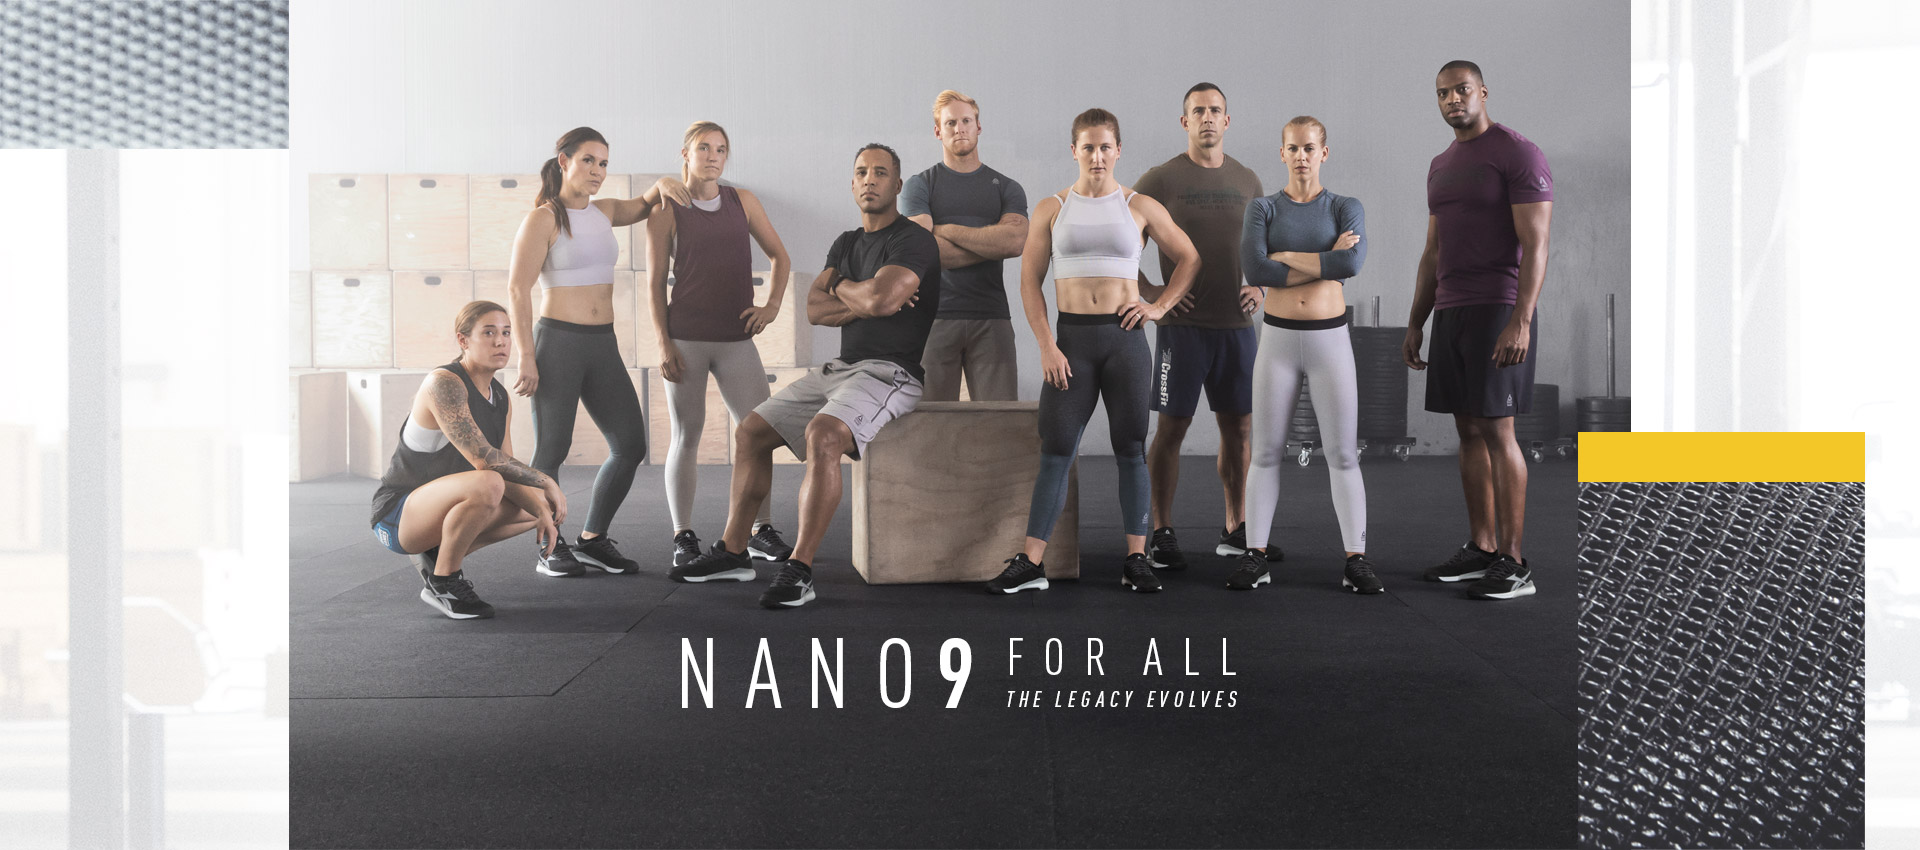
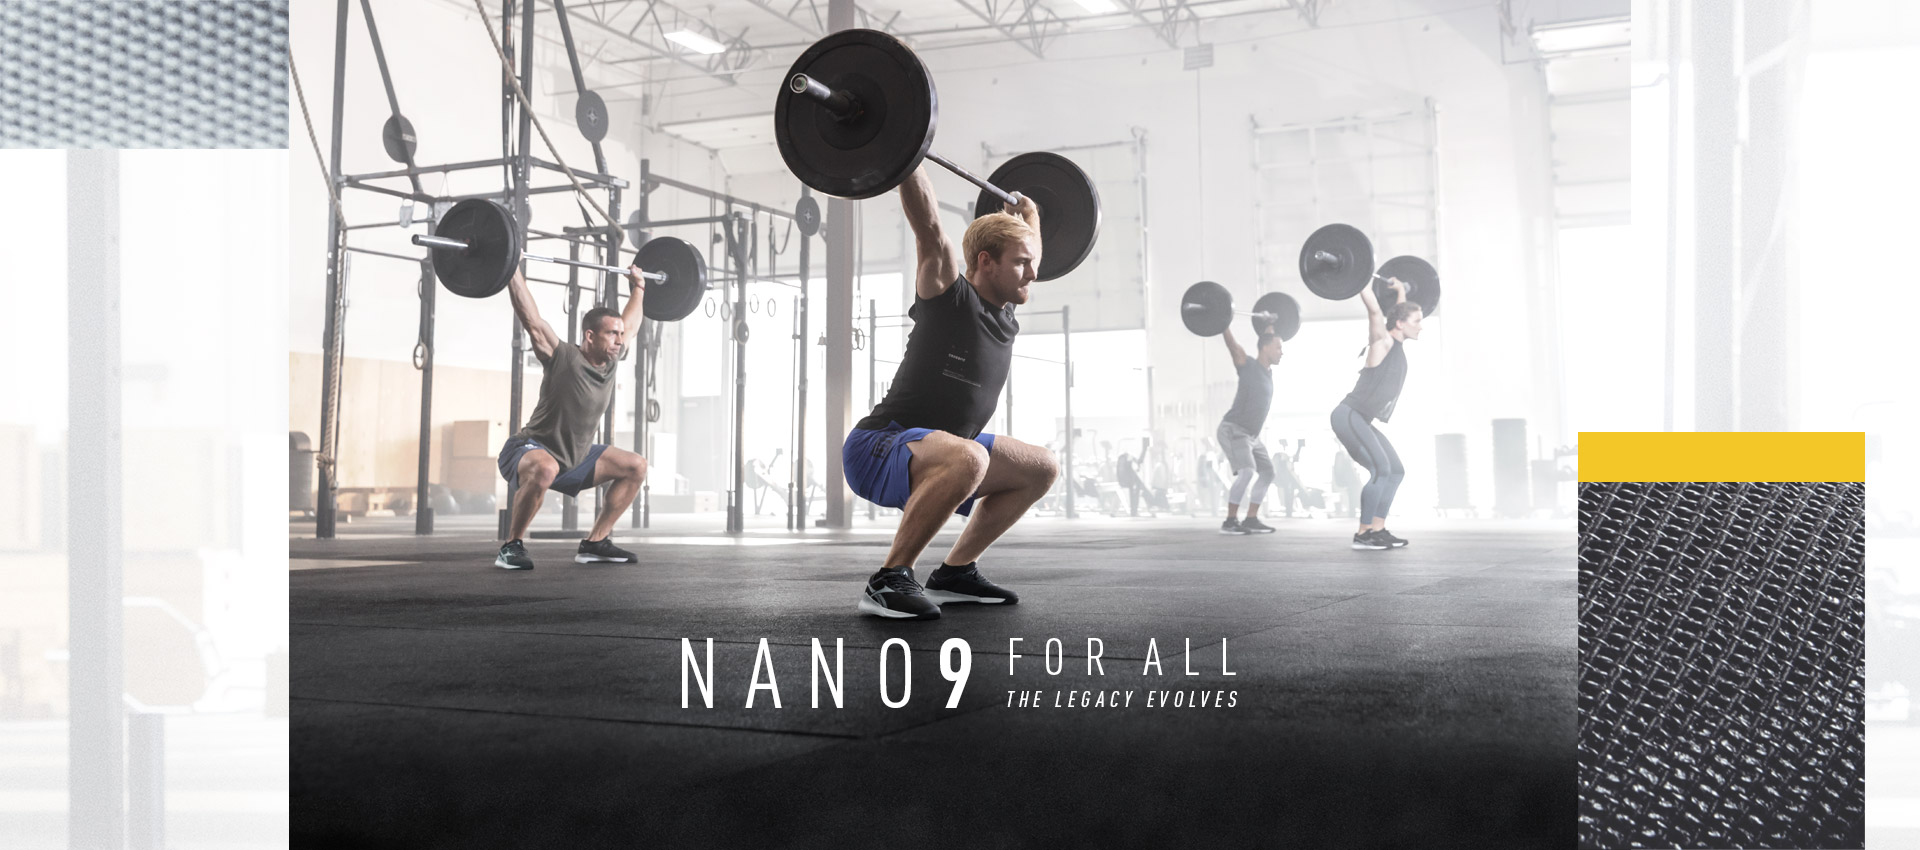
ree_cp_나노9 업댓

diff --git a/front/html/reebok/2019/event/nano/0612/build/index.html b/front/html/reebok/2019/event/nano/0612/build/index.html
@@ -763,8 +763,7 @@
 								<a href="javascript:void(0)" class="arrow-next"><img
 										src="/images/reebok/2019/event/nano/0612/arrow_next.png" alt=""></a>
 								<ul>
-									<li class="active"><img src="/images/reebok/2019/event/nano/0612/col1.jpg" alt=""></li>
-									<li><img src="/images/reebok/2019/event/nano/0612/col2.jpg" alt=""></li>
+									<li class="active"><img src="/images/reebok/2019/event/nano/0612/col2.jpg" alt=""></li>
 									<li><img src="/images/reebok/2019/event/nano/0612/col3.jpg" alt=""></li>
 									<li><img src="/images/reebok/2019/event/nano/0612/col4.jpg" alt=""></li>
 								</ul>
@@ -774,7 +773,6 @@
 							<!-- 커스텀 넘버링 버튼 -->
 							<div class="indicator">
 								<a class="on" href="javascript:void(0)"></a>
-								<a href="javascript:void(0)"></a>
 								<a href="javascript:void(0)"></a>
 								<a href="javascript:void(0)"></a>
 							</div>

diff --git a/front/html/reebok/2019/event/nano/0612/index.html b/front/html/reebok/2019/event/nano/0612/index.html
@@ -761,8 +761,7 @@
 								<a href="javascript:void(0)" class="arrow-next"><img
 										src="/images/reebok/2019/event/nano/0612/arrow_next.png" alt=""></a>
 								<ul>
-									<li class="active"><img src="/images/reebok/2019/event/nano/0612/col1.jpg" alt=""></li>
-									<li><img src="/images/reebok/2019/event/nano/0612/col2.jpg" alt=""></li>
+									<li class="active"><img src="/images/reebok/2019/event/nano/0612/col2.jpg" alt=""></li>
 									<li><img src="/images/reebok/2019/event/nano/0612/col3.jpg" alt=""></li>
 									<li><img src="/images/reebok/2019/event/nano/0612/col4.jpg" alt=""></li>
 								</ul>
@@ -772,7 +771,6 @@
 							<!-- 커스텀 넘버링 버튼 -->
 							<div class="indicator">
 								<a class="on" href="javascript:void(0)"></a>
-								<a href="javascript:void(0)"></a>
 								<a href="javascript:void(0)"></a>
 								<a href="javascript:void(0)"></a>
 							</div>
